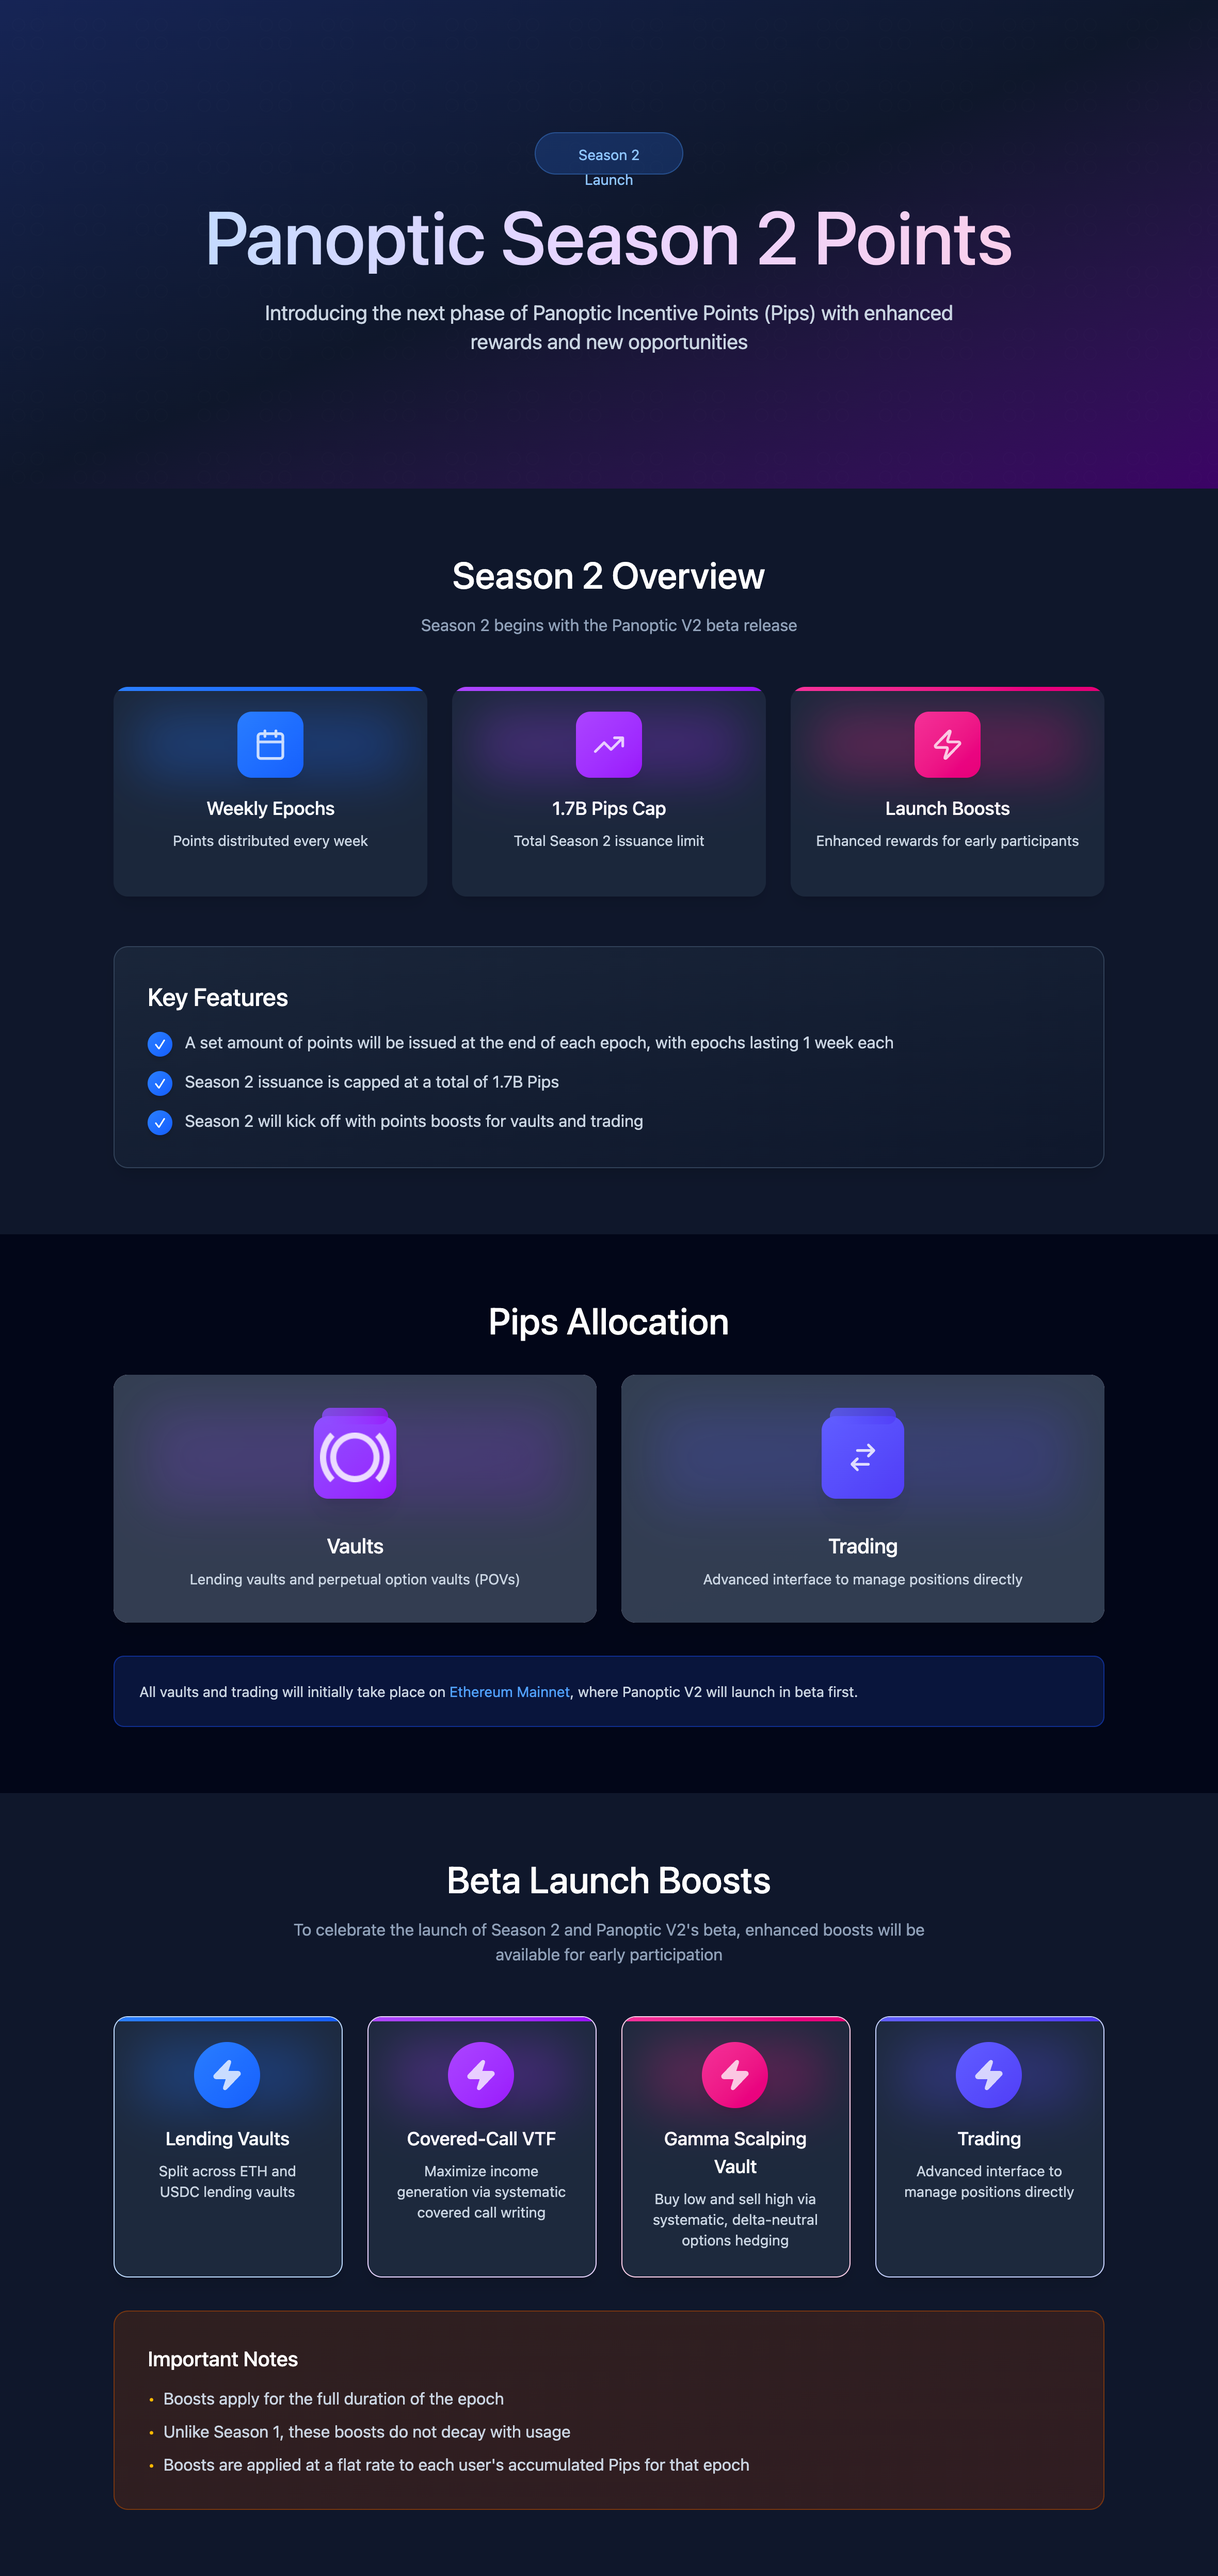
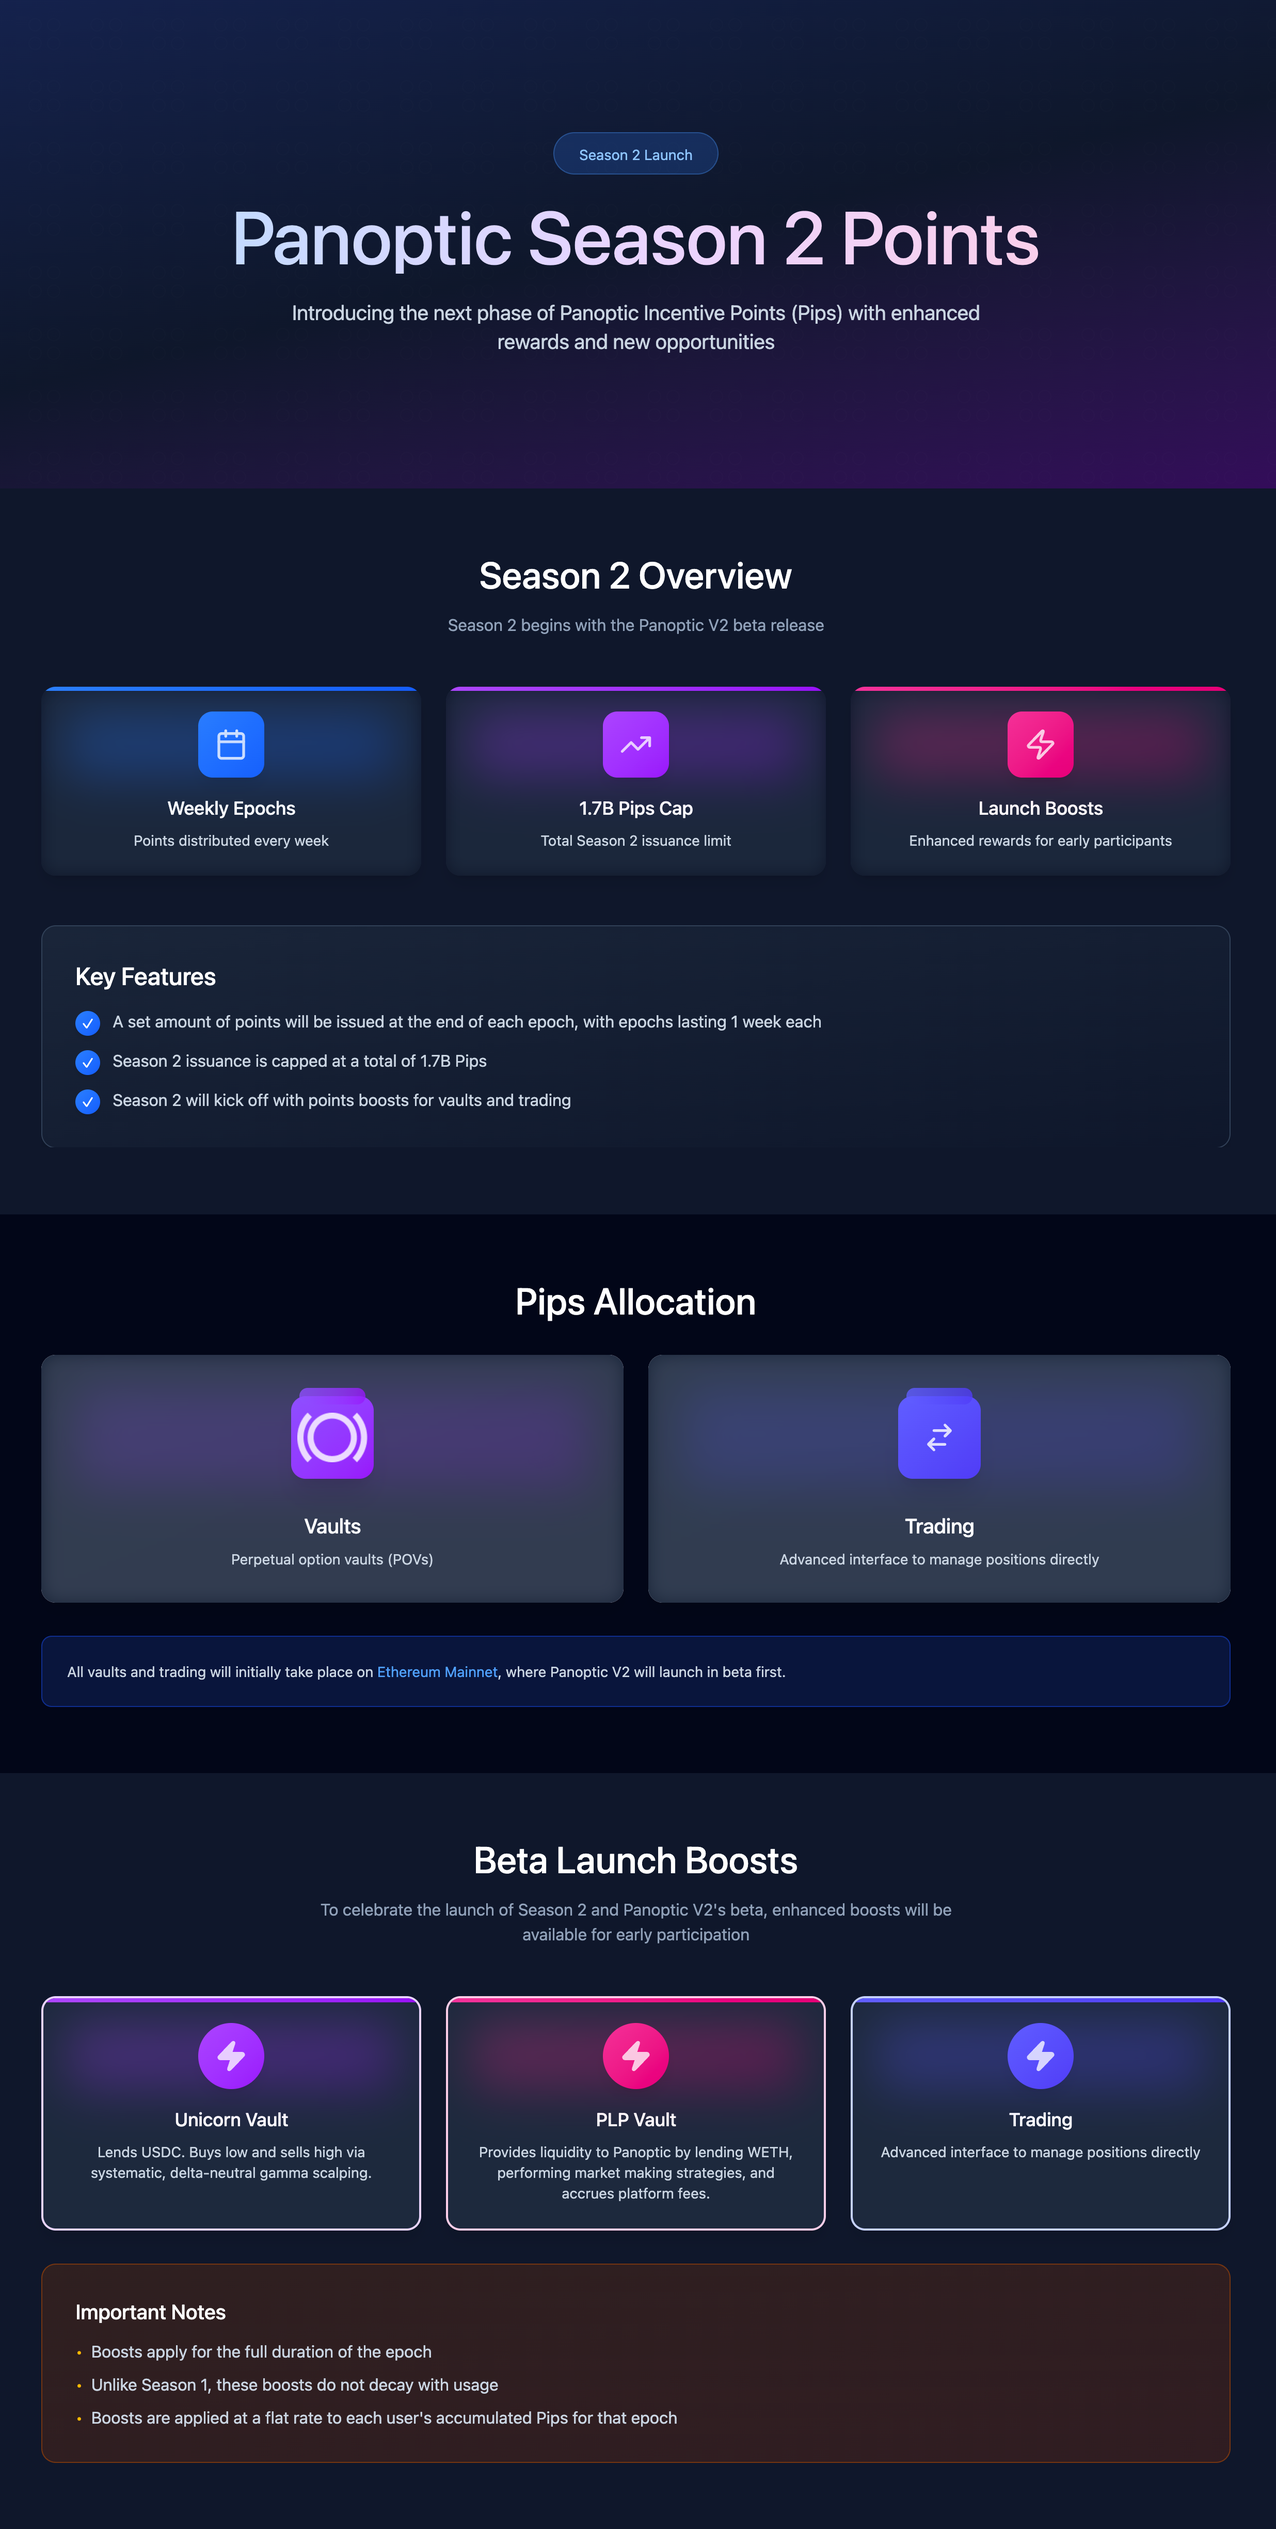
updated vaults and points

diff --git a/docs/getting-started/vaults.md b/docs/getting-started/vaults.md
@@ -13,41 +13,21 @@ Panoptic vaults span the risk-return spectrum, offering strategies for both cons
 ## Community Vaults
 Panoptic’s community vaults do not charge performance fees and are designed to provide accessible, onchain yield strategies. New vaults and expanded caps will roll out every few weeks after launch.
 
-### Lending Vaults
-Two passive lending vaults — one for USDC and one for ETH — offer simple, lower-risk yield generation. Deposits are allocated into Panoptic’s underlying lending markets, beginning with the ETH/USDC market and expanding to other markets like BTC/USDC over time.
+Panoptic will initially launch with two community vaults.
 
-<ThemedImage
-  alt="Active-LP"
-  sources={{
-    light: useBaseUrl('/img/lending-vault.svg'),
-    dark: useBaseUrl('/img/lending-vault.svg'),
-  }}
-  style={{width: '100%'}}
-/>
+![Panoptic vaults comparison](/img/vaults/panoptic-vaults-comparison.png)
 
-### Covered Call VTF (Vault Traded Fund)
-This option selling vault functions as an ETH covered call ETF, bringing tried-and-true investment vehicles like Grayscale's BTCC and BlackRock's upcoming premium income ETF to DeFi. Users deposit stablecoins, which the vault uses to synthetically acquire ETH exposure and sell call options. Option premiums are distributed as regular income, providing periodic disbursements to all depositors.
+### USDC Unicorn Vault
+Deposited USDC is allocated into Panoptic’s underlying lending markets, beginning with the ETH/USDC market and expanding to additional markets like BTC/USDC over time. The strategy also runs systematic, delta-neutral gamma scalping designed to buy low and sell high.
 
-<ThemedImage
-  alt="Active-LP"
-  sources={{
-    light: useBaseUrl('/img/covered-call-vault.svg'),
-    dark: useBaseUrl('/img/covered-call-vault.svg'),
-  }}
-  style={{width: '100%'}}
-/>
+![USDC Unicorn Vault animation](/img/vaults/usdc-unicorn-vault.gif)
+![USDC Unicorn Vault details](/img/vaults/unicorn-vault-info.png)
 
-### Gamma Scalping Vault
-This option buying vault aims to buy low and sell high by systematically buying call options and dynamically hedging the delta to zero. The strategy is similar to Ethena's basis trade, but for options markets.
+### WETH PLP Vault
+Deposited WETH is allocated into Panoptic’s underlying lending markets, beginning with the ETH/USDC market at launch. The vault provides liquidity to Panoptic through lending and market making strategies, and accrues platform fees.
 
-<ThemedImage
-  alt="Active-LP"
-  sources={{
-    light: useBaseUrl('/img/gamma-scalping-vault.svg'),
-    dark: useBaseUrl('/img/gamma-scalping-vault.svg'),
-  }}
-  style={{width: '100%'}}
-/>
+![WETH PLP Vault animation](/img/vaults/weth-plp-vault.gif)
+![WETH PLP Vault details](/img/vaults/plp-vault-info.png)
 
 ## Curated Vaults
 Anyone can create a vault using Panoptic’s vault infrastructure. Curated vaults may run any strategy — including lending or options trading — and may charge performance fees to depositors.

diff --git a/docs/getting-started/points.md b/docs/getting-started/points.md
@@ -5,4 +5,4 @@ label: "Points"
 
 # Points
 
-![](./panoptic-season-2-points.png)
+![](/img/research/panoptic-season-2-points.png)
